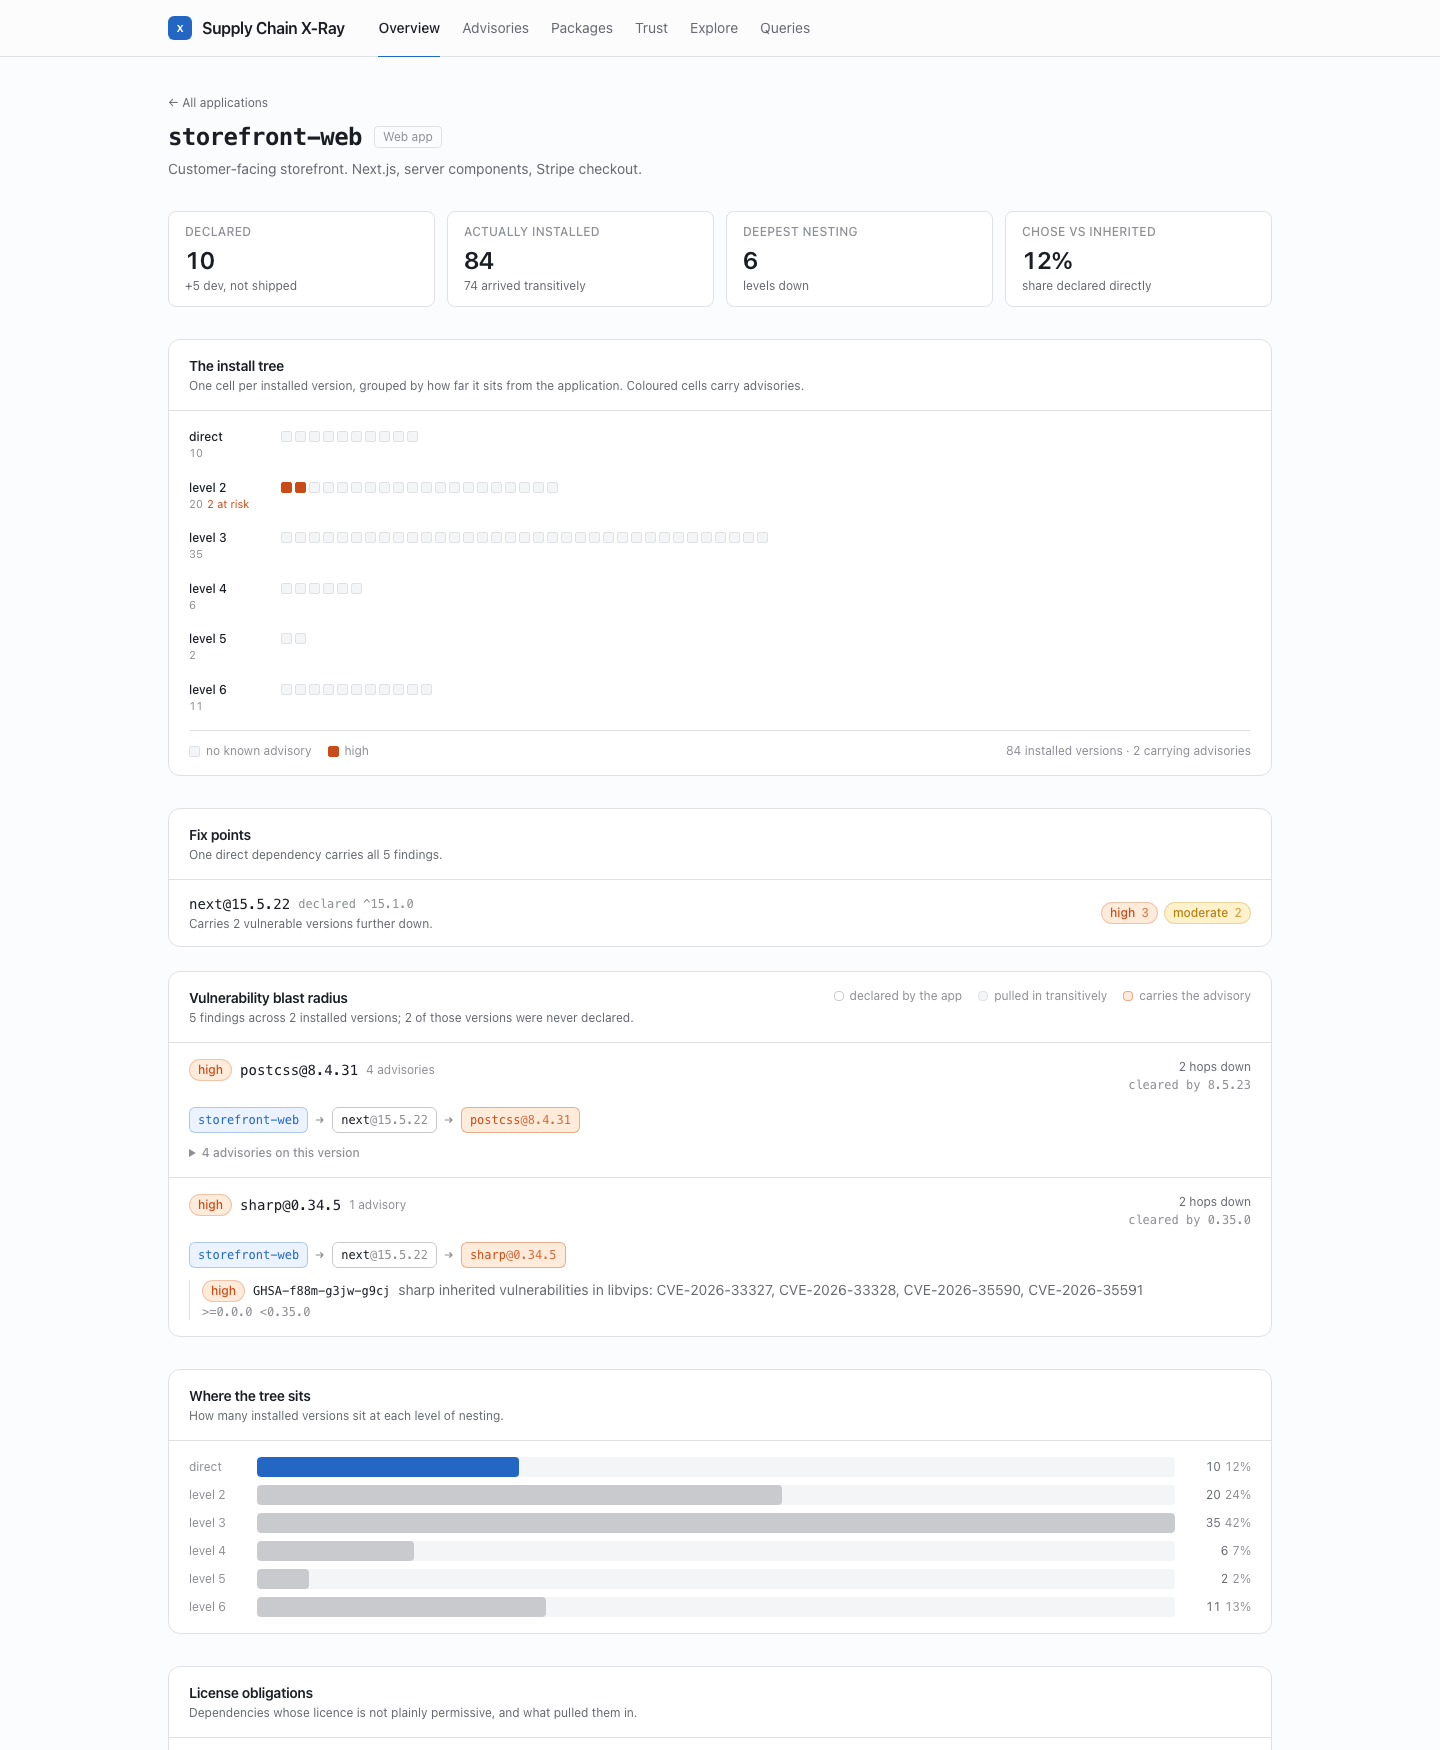
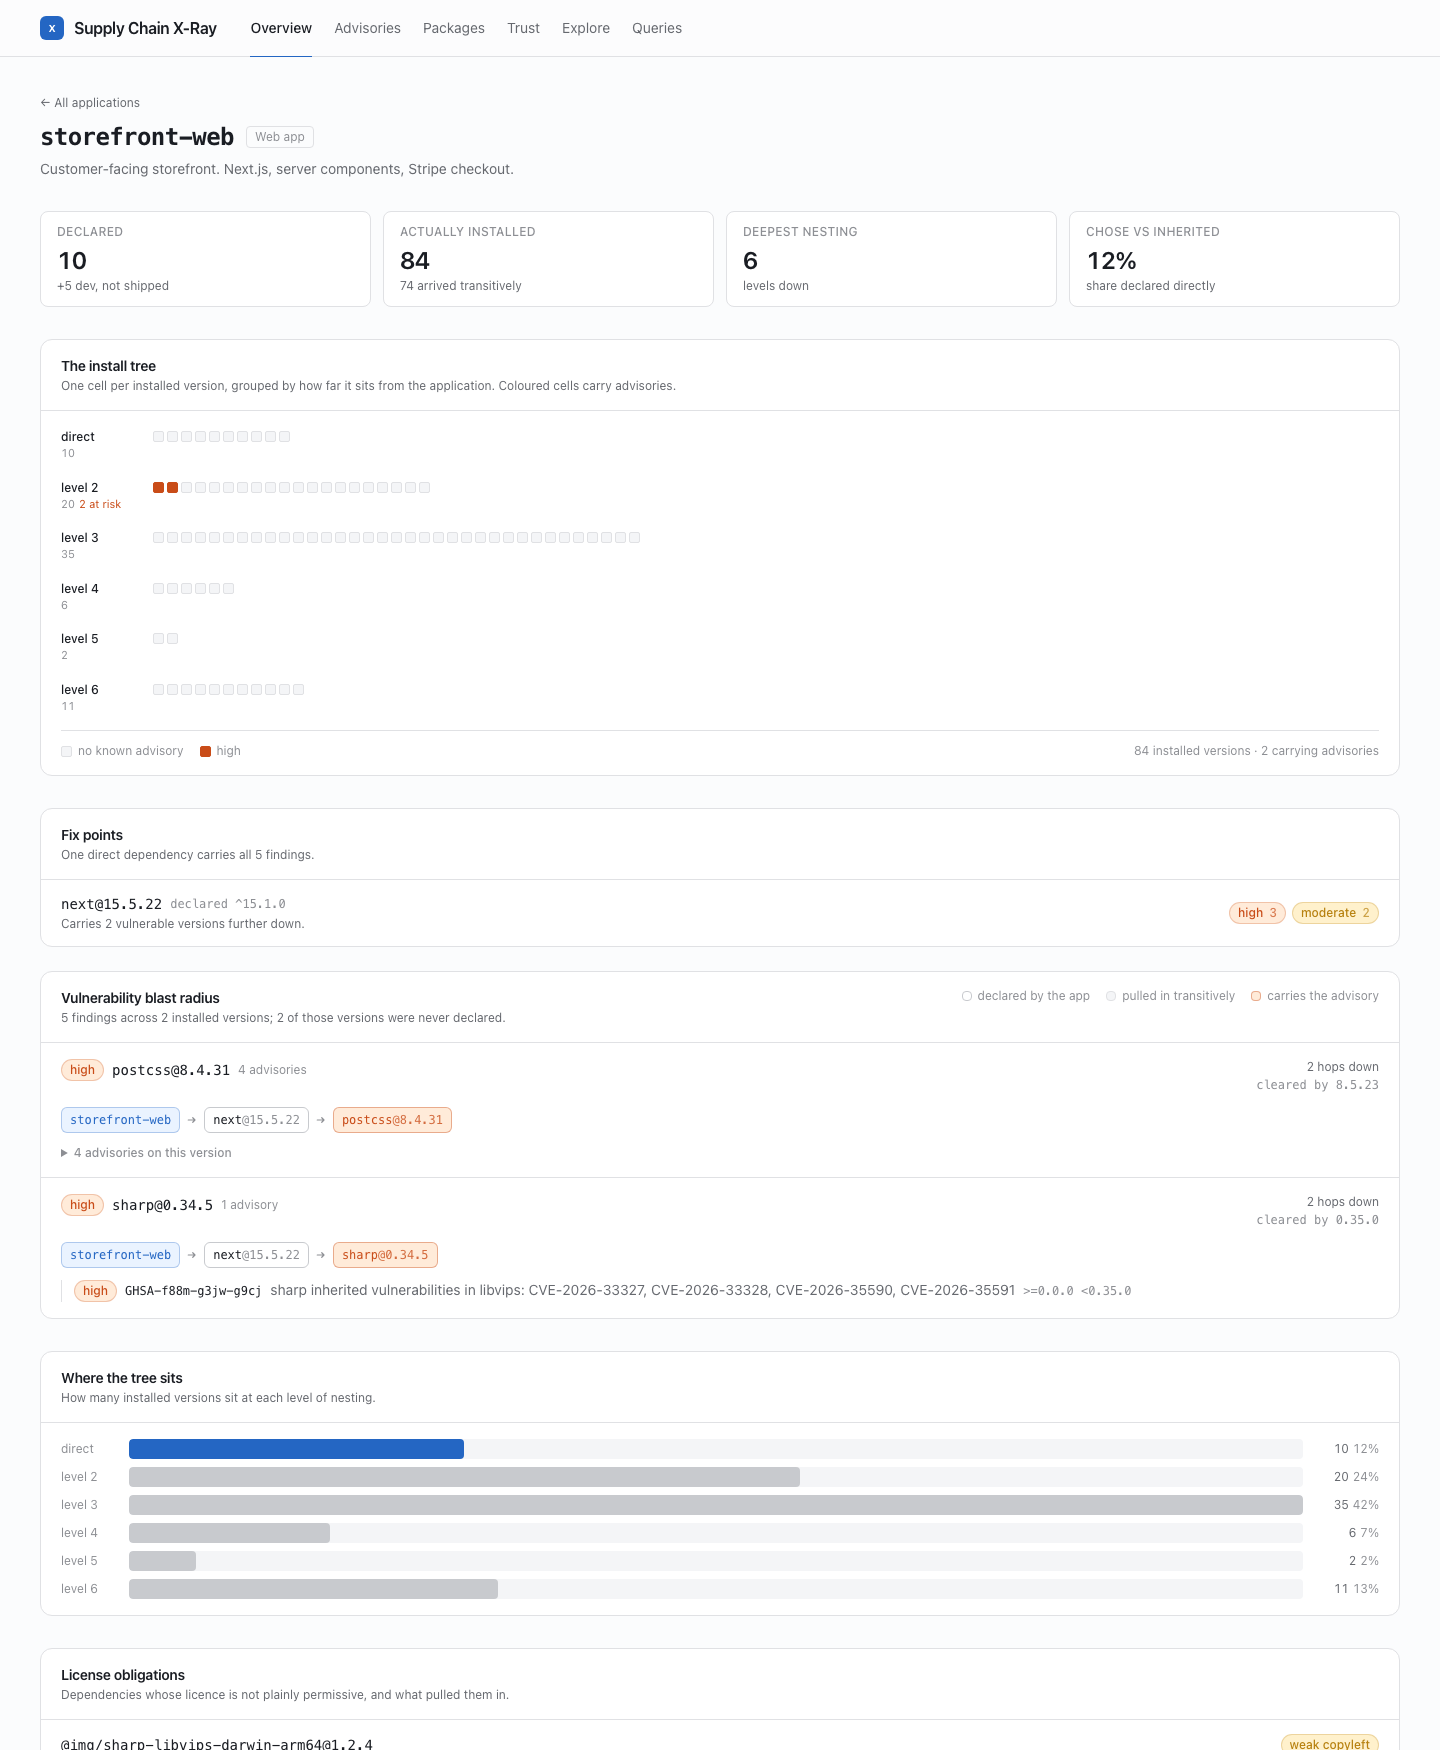
fix(ui): widen the page shell, cap prose independently of it
On a wide display the 72rem shell left roughly a third of the viewport empty
on each side, which read as a broken layout rather than a deliberate margin.

Widening it alone would have been the wrong fix: running text past about
eighty characters is measurably harder to read, so a shell sized for tables
would have stretched every paragraph with it. The two constraints are now
separate — the shell is 88rem, and text inside it carries its own cap. That
lands near full width on a 1440px laptop and looks intentional on a larger
screen, without going edge to edge, which would put the first and last
column of a table a screen apart.

Widening exposed a second-order problem worth recording. The first attempt
capped panel descriptions at 68ch, a measure tuned for body copy — but these
render at 12px, where 68ch is about 440px, so descriptions wrapped earlier
than before rather than later. Measures in ch are relative to font size, and
copying one between text sizes does not transfer. They are now capped in rem
at a width that fits a one-line sentence on one line.

Also widened the maintainer app-chip column. It was sized for the narrow
shell, so three chips wrapped to three lines and left rows at inconsistent
heights. No type sizes changed anywhere in this commit.

diff --git a/src/app/layout.tsx b/src/app/layout.tsx
@@ -15,7 +15,7 @@ export default function RootLayout({ children }: LayoutProps<"/">) {
     <html lang="en" className="h-full">
       <body className="flex min-h-full flex-col">
         <header className="sticky top-0 z-10 border-b border-line bg-bg/85 backdrop-blur">
-          <div className="mx-auto flex max-w-6xl items-center gap-6 px-6 py-3">
+          <div className="shell flex items-center gap-6 py-3">
             <Link href="/" className="flex items-center gap-2.5 font-semibold tracking-tight">
               <span
                 aria-hidden="true"
@@ -29,10 +29,10 @@ export default function RootLayout({ children }: LayoutProps<"/">) {
           </div>
         </header>
 
-        <main className="mx-auto w-full max-w-6xl flex-1 px-6 py-8">{children}</main>
+        <main className="shell flex-1 py-8">{children}</main>
 
         <footer className="border-t border-line">
-          <div className="mx-auto max-w-6xl px-6 py-5 text-xs text-ink-faint">
+          <div className="shell py-5 text-xs text-ink-faint">
             Dependency and advisory data from{" "}
             <a
               className="text-ink-muted underline decoration-line underline-offset-2 hover:text-ink"

diff --git a/src/app/globals.css b/src/app/globals.css
@@ -185,3 +185,22 @@ body {
     transition-duration: 0.01ms !important;
   }
 }
+
+/*
+ * Page shell.
+ *
+ * Two competing constraints: data-dense panels want width, and prose does not —
+ * a line of text past roughly 80 characters is measurably harder to read. So the
+ * shell is generous and the *text inside it* is capped separately, rather than
+ * throttling every panel to keep paragraphs narrow.
+ *
+ * 88rem lands near the full width of a 1440px laptop and leaves a wide display
+ * looking deliberate rather than abandoned. Going edge-to-edge would put the
+ * first and last column of a table a screen apart.
+ */
+.shell {
+  width: 100%;
+  max-width: 88rem;
+  margin-inline: auto;
+  padding-inline: 1.5rem;
+}

diff --git a/src/components/primitives.tsx b/src/components/primitives.tsx
@@ -122,7 +122,11 @@ export function Panel({
       <header className="flex flex-wrap items-start justify-between gap-4 border-b border-line px-5 py-4">
         <div>
           <h2 className="text-sm font-semibold tracking-tight">{title}</h2>
-          {description && <p className="mt-0.5 text-xs text-ink-muted">{description}</p>}
+          {/* Capped so a description never spans the full shell, but wide
+              enough that a one-line sentence stays on one line at this size. */}
+          {description && (
+            <p className="mt-0.5 max-w-5xl text-xs text-ink-muted">{description}</p>
+          )}
         </div>
         {action}
       </header>

diff --git a/src/app/maintainers/page.tsx b/src/app/maintainers/page.tsx
@@ -162,7 +162,7 @@ function TrustRowView({ row }: { row: TrustRow }) {
           </div>
           <div className="mt-1 text-[11px] uppercase tracking-wide text-ink-faint">depth</div>
         </div>
-        <div className="hidden w-32 flex-wrap gap-1 sm:flex">
+        <div className="hidden w-56 flex-wrap gap-1 sm:flex">
           {row.appSlugs.slice(0, 3).map((slug) => (
             <Link
               key={slug}
